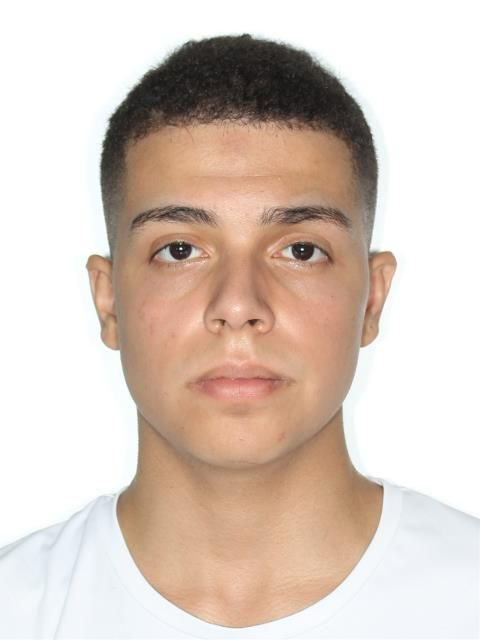
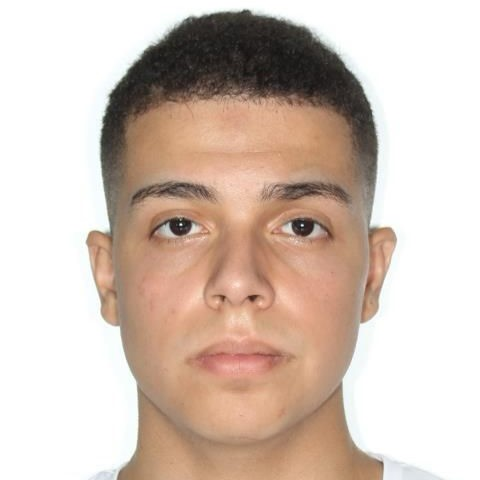
fotos - quadradas

diff --git a/templates/index/sobre.html b/templates/index/sobre.html
@@ -475,7 +475,7 @@
             <!-- Front -->
             <div class="flip-card-front card card-team text-center">
               <img
-                src="static/img/perfil/isabelle.jpeg"
+                src="static/img/perfil/isabelle.png"
                 alt="Isabelle Dib"
                 class="team-img mx-auto"
               />
@@ -504,7 +504,7 @@
               class="flip-card-back card card-team text-center d-flex flex-column justify-content-center align-items-center"
             >
               <img
-                src="static/img/perfil/isabelle.jpeg"
+                src="static/img/perfil/isabelle.png"
                 alt="Isabelle Dib"
                 class="team-img mx-auto"
               />
@@ -538,7 +538,7 @@
             <!-- Front -->
             <div class="flip-card-front card card-team text-center">
               <img
-                src="static/img/perfil/joao.jpeg"
+                src="static/img/perfil/joao.jpg"
                 alt="João Pedro Helbel"
                 class="team-img mx-auto"
               />
@@ -567,7 +567,7 @@
               class="flip-card-back card card-team text-center d-flex flex-column justify-content-center align-items-center"
             >
               <img
-                src="static/img/perfil/joao.jpeg"
+                src="static/img/perfil/joao.jpg"
                 alt="João Pedro Helbel"
                 class="team-img mx-auto"
               />
